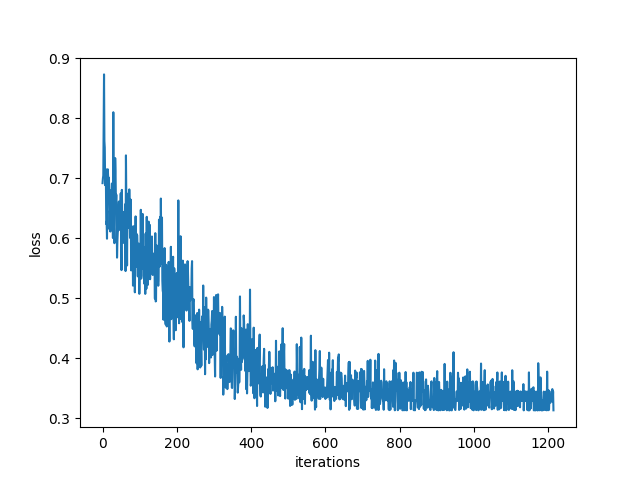
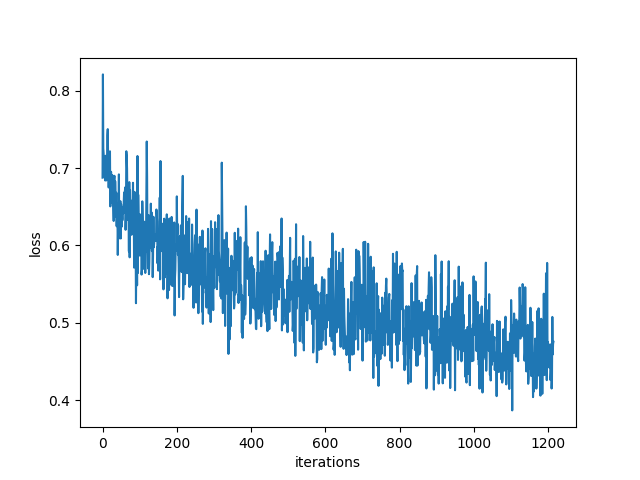
With LR and regularization

diff --git a/Nick_tests/replicate/gender_model.py b/Nick_tests/replicate/gender_model.py
@@ -110,6 +110,7 @@ def train(loader_train,val_loader, model, loss_fn, optimizer, dtype,num_epochs=1
             loss.backward()
             optimizer.step()
         val_acc = validate_epoch(model, val_loader, dtype)
+        print('Val accc  %.4f' %  val_acc)
         val_acc_history.append(val_acc)
     return loss_history, acc_history, val_acc_history
 
@@ -233,7 +234,7 @@ print("defined model")
 model.type(dtype)
 model.train()
 loss_fn = nn.CrossEntropyLoss().type(dtype)
-optimizer = optim.Adam(model.parameters(), lr=5e-5,weight_decay=0)
+optimizer = optim.Adam(model.parameters(), lr=5e-5,weight_decay=5e-2)
 print("start training")
 loss_history,acc_history,val_acc_history=train(train_loader,val_loader, model, loss_fn, optimizer, dtype,num_epochs=15, print_every=17)
 
